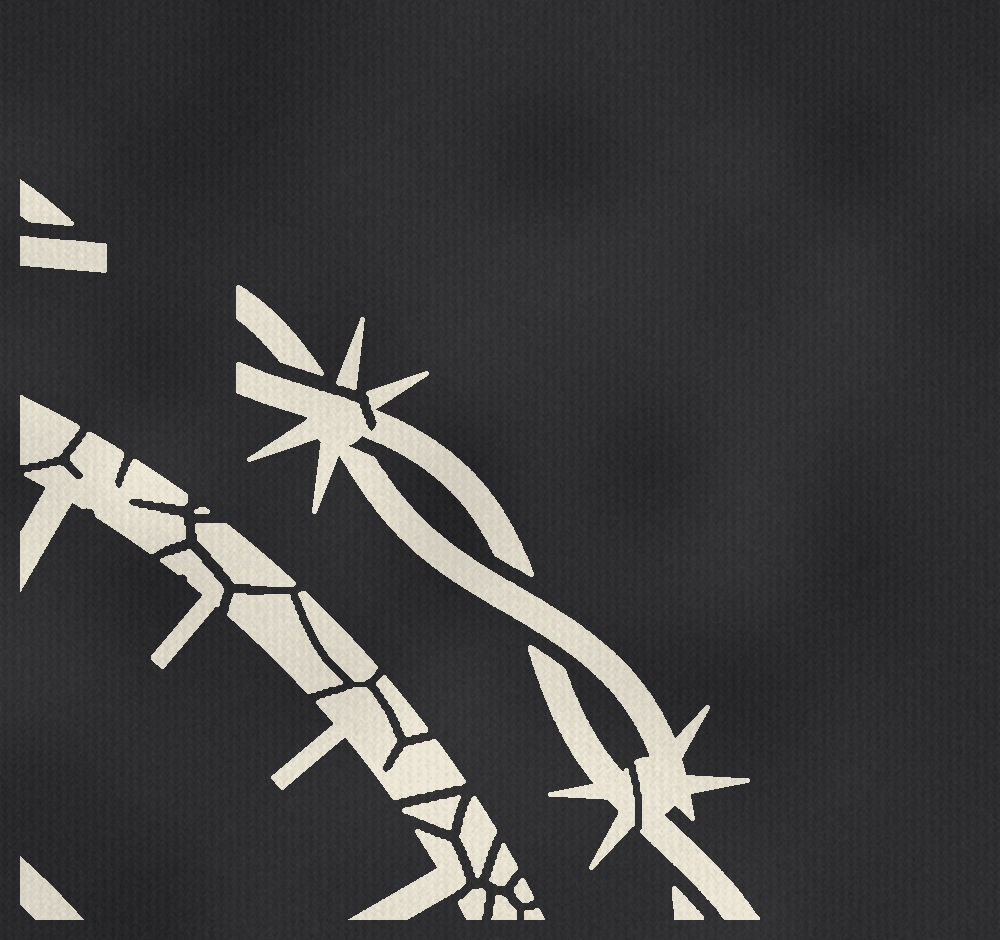
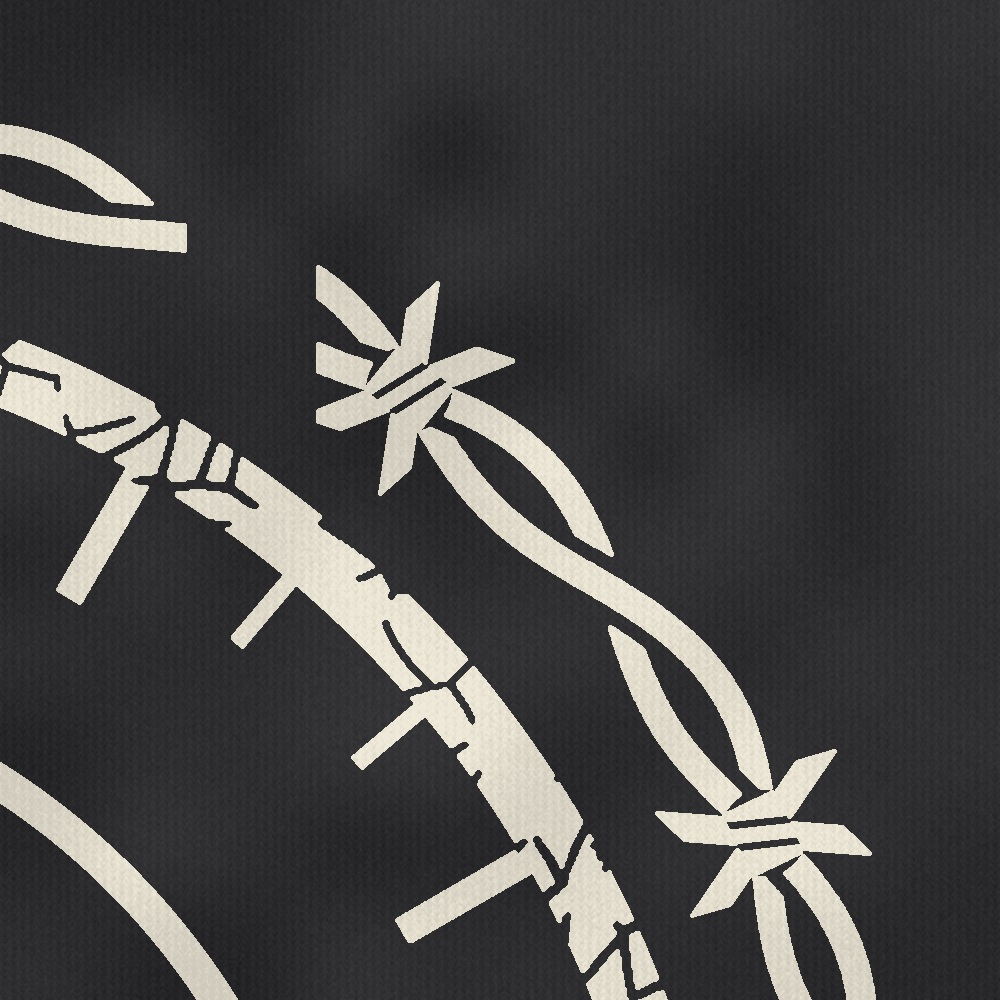
Polish ASAPROJECT archive hoodie after final review
Crossed-wire barbs with coil wraps, slogan kept solid and matched to the
emblem width, wider wordmark letter gaps, no floating crack dashes or
underbase-less islands, registration marks on every plate, tighter detail
crops and a visible garment-dye wash on the mockups.

Claude-Session: https://claude.ai/code/session_014qKUPKzD2XToMC4qC8Abs1

diff --git a/design/asaproject-archive/sorgenti/asa_archive.py b/design/asaproject-archive/sorgenti/asa_archive.py
@@ -244,26 +244,67 @@ def back_emblem(diameter_mm=235):
     s0 &= ~(cross1 & grow(s1, 1.2 * MM))
     wire = s0 | s1
 
-    # 16 four-point barbs spread over the arc outside the break, clear of the crosshair axes
-    gap_ang = mm(10) / R
+    # 16 barbs, each sitting on a strand crossing: two snipped wires crossing at 60 deg
+    # (4 points, tips ~9 mm from the axis) held by a 2-turn coil wrap
+    axes = (0, math.pi / 2, math.pi, -math.pi / 2)
+    crossings = [k * math.pi / n for k in range(2 * n)]
+    usable = [t for t in crossings
+              if _angdist(t, brk) > mm(14) / R and min(_angdist(t, ax) for ax in axes) > math.radians(8)]
+    gap_ang = mm(14) / R
     span = 2 * math.pi - 2 * gap_ang
     best = None
     for off in np.linspace(0, 1, 41):
-        ts = [brk + gap_ang + (j + off) * span / 16 for j in range(16)]
-        clear = min(_angdist(t, ax) for t in ts for ax in (0, math.pi / 2, math.pi, -math.pi / 2))
-        if best is None or clear > best[0]:
-            best = (clear, ts)
+        ideal = [brk + gap_ang + (j + off) * span / 16 for j in range(16)]
+        picked, taken = [], set()
+        for t in ideal:
+            cand = sorted((t2 for t2 in usable if t2 not in taken), key=lambda t2: _angdist(t2, t))
+            if cand:
+                picked.append(cand[0])
+                taken.add(cand[0])
+        err = sum(_angdist(a, b) for a, b in zip(picked, ideal))
+        if len(picked) == 16 and (best is None or err < best[0]):
+            best = (err, picked)
     barbs = Image.new("L", (S, S), 0)
     db2 = ImageDraw.Draw(barbs)
+    hw = mm(2.5) / 2
+    L = (mm(barb_reach) - hw * math.sin(math.radians(30))) / math.cos(math.radians(30))
+    cut = mm(3.0)
+    wraps = []
     for t in best[1]:
         bx, by = c + R * math.cos(t), c + R * math.sin(t)
+        for a in (t + math.radians(30), t - math.radians(30)):
+            ux, uy = math.cos(a), math.sin(a)
+            nx, ny = -uy, ux
+            loc = lambda s, q: (bx + s * ux + q * nx, by + s * uy + q * ny)
+            # both ends snipped on parallel diagonals -> sharp points, like cut wire
+            db2.polygon([loc(-L + cut, hw), loc(L, hw), loc(L - cut, -hw), loc(-L, -hw)], fill=255)
+        wraps.append(t)
+    # coil wrap over the centre of each barb, with two 0.6 mm gaps between the turns
+    for t in wraps:
+        bx, by = c + R * math.cos(t), c + R * math.sin(t)
         tang = t + math.pi / 2
-        for sgn in (1, -1):
-            for flip in (0, math.pi):
-                _spike(db2, bx, by, tang + sgn * barb_ang + flip, mm(barb_len), mm(2.5))
-        r0 = mm(2.6)
-        db2.ellipse((bx - r0, by - r0, bx + r0, by + r0), fill=255)
-    wire |= hard(barbs.resize((D, D), Image.LANCZOS))
+        ux, uy = math.cos(tang), math.sin(tang)
+        nx, ny = math.cos(t), math.sin(t)
+        loc = lambda s, q: (bx + s * ux + q * nx, by + s * uy + q * ny)
+        lw, th = mm(3.0), mm(2.3)
+        db2.polygon([loc(-lw, -th), loc(lw, -th), loc(lw, th), loc(-lw, th)], fill=255)
+        for s0 in (-mm(1.0), mm(1.0)):
+            sk = math.tan(math.radians(20)) * th          # coil turns lean ~20 deg
+            g = mm(0.3)
+            db2.polygon([loc(s0 - g - sk, -th - 2), loc(s0 + g - sk, -th - 2),
+                         loc(s0 + g + sk, th + 2), loc(s0 - g + sk, th + 2)], fill=0)
+    barb_mask = hard(barbs.resize((D, D), Image.LANCZOS))
+    # the wrap's gaps cut through everything under it, strands included
+    under_wrap = np.zeros((D, D), bool)
+    wr = Image.new("L", (D, D), 0)
+    dwr = ImageDraw.Draw(wr)
+    for t in wraps:
+        x, y = D / 2 + cR * math.cos(t), D / 2 + cR * math.sin(t)
+        r = 3.6 * MM
+        dwr.ellipse((x - r, y - r, x + r, y + r), fill=255)
+    under_wrap = np.asarray(wr) > 0
+    wire = (wire & ~under_wrap) | barb_mask
+    nocrack = grow(barb_mask | under_wrap, 0.5 * MM)
 
     # the break: a short angled snip through both strands
     snip = Image.new("L", (D, D), 0)
@@ -318,7 +359,7 @@ def back_emblem(diameter_mm=235):
     neon[oy:oy + ah, ox:ox + aw] = asa
     bone &= ndimage.distance_transform_edt(~neon) > px(4)   # clear fabric around the pink
     rects = [(x0 + ox, y0 + oy, x1 + ox, y1 + oy) for x0, y0, x1, y1 in asa_rects]
-    return bone, neon, rects
+    return bone, neon, rects, nocrack
 
 
 def chest_emblem(width_mm=89):
@@ -422,6 +463,9 @@ def crack(ink, keep_out, seed=11):
         thick &= ~tiny[lbl]
     allowed = thick & ~keep_out
     out = ink & ~(cracks & allowed)
+    # a crack has to run to an edge or into the network: fill floating dashes and pinholes
+    counters = ndimage.binary_fill_holes(ink) & ~ink
+    out |= ndimage.binary_fill_holes(out) & ~out & ~counters
 
     # chips: irregular 3-6 sided bites, 0.8-2 mm, along the edges of thick strokes
     border = allowed & (inside <= 1.5)
@@ -455,15 +499,17 @@ def keep_out_mask(shape, rects, margin_mm=3.0):
 # ---------------------------------------------------------------- layouts
 
 def back_art(width_in=14.0):
-    """Back statement: wordmark 14 in, emblem 9.25 in, slogan 8 in. Returns plates dict."""
+    """Back statement: wordmark 14 in, emblem 9.25 in, slogan as wide as the emblem."""
     W = round(width_in * INCH)
-    wm, wm_rects, letters = stencil_word("ASAPROJECT", 600)
+    # letter gaps ~2x the bridges so P, R, O, E never fall apart at a distance
+    wm, wm_rects, letters = stencil_word("ASAPROJECT", 600, tracking=0.17, bridge=0.08)
     k = W / wm.shape[1]
     wm, wm_rects = fit_width(wm, W), scale_rects(wm_rects, k)
     letters = [(round(a * k), round(b * k)) for a, b in letters]
-    eb, en, e_rects = back_emblem(235)
+    eb, en, e_rects, e_nocrack = back_emblem(235)
+    ecols = np.where(eb.any(axis=0))[0]
     sl = text_line("NOBODY GAVE US PERMISSION", 400, BARLOW_XBOLD, tracking=0.04)
-    sl = fit_width(sl, round(8.0 * INCH))
+    sl = fit_width(sl, int(ecols[-1] - ecols[0] + 1))       # exactly as wide as the emblem
     g1, g2 = round(1.25 * INCH), round(0.5 * INCH)
     H = wm.shape[0] + g1 + eb.shape[0] + g2 + sl.shape[0]
     bone = np.zeros((H, W), bool)
@@ -476,26 +522,34 @@ def back_art(width_in=14.0):
     neon[y:y + en.shape[0], x:x + en.shape[1]] |= en
     emblem_box = (x, y, x + eb.shape[1], y + eb.shape[0])
     rects += [(x0 + x, y0 + y, x1 + x, y1 + y) for x0, y0, x1, y1 in e_rects]
+    ko = keep_out_mask((H, W), rects)
+    ko[emblem_box[1]:emblem_box[3], emblem_box[0]:emblem_box[2]] |= e_nocrack   # barbs stay whole
     y += eb.shape[0] + g2
     x = (W - sl.shape[1]) // 2
-    bone[y:y + sl.shape[0], x:x + sl.shape[1]] |= sl
-    ko = keep_out_mask((H, W), rects)
+    slogan = np.zeros((H, W), bool)
+    slogan[y:y + sl.shape[0], x:x + sl.shape[1]] = sl
+    # the slogan stays solid, like the hem code; the rest gets the cracked print
+    bone_c = crack(bone, ko, seed=11) | slogan
+    neon_c = crack(neon, ko, seed=12)
+    bone |= slogan
     # press-ready: no ink feature (barb tip, acute corner, crack sliver) under ~0.42 mm
-    bone_c = drop_specks(opening(crack(bone, ko, seed=11), 2.5))
-    neon_c = drop_specks(opening(crack(neon, ko, seed=12), 2.5))
-    return {"bone": bone_c, "neon": neon_c,
+    bone_c, neon_c, under = press_ready(opening(bone_c, 2.5), opening(neon_c, 2.5))
+    return {"bone": bone_c, "neon": neon_c, "under": under,
             "bone_raw": bone, "neon_raw": neon, "letters": letters, "wordmark_h": wm.shape[0],
             "emblem_box": emblem_box,
             "cap_wordmark_in": wm.shape[0] / INCH, "cap_slogan_in": sl.shape[0] / INCH}
 
 
 def hem_code(text="ASA-001 · EST. 2026"):
-    return {"bone": text_line(text, px(10), BARLOW_BOLD, tracking=0.10)}
+    (bone,), under = press_ready(text_line(text, px(10), BARLOW_BOLD, tracking=0.10), cracked=False)
+    return {"bone": bone, "under": under}
 
 
 def chest_art():
     bone, neon = chest_emblem(89)
-    return {"bone": bone, "neon": neon}
+    # the white underbase goes only under the flat pink; the bone is printed as puff
+    (neon,), under = press_ready(neon, cracked=False)
+    return {"bone": bone, "neon": neon, "under": under}
 
 
 # ---------------------------------------------------------------- output
@@ -506,6 +560,51 @@ def underbase(*plates, choke_mm=0.17):
     for p in plates:
         u |= p
     return drop_specks(opening(shrink(u, choke_mm * MM), 2.5))
+
+
+def press_ready(*tops, cracked=True):
+    """Despeckle the top colours, build the underbase, and drop any top-colour island
+    that would end up with no underbase under it (it would print dull or not hold).
+    Returns (tops..., underbase); with cracked=False returns ((tops,), underbase)."""
+    tops = [drop_specks(t, 1.0) for t in tops]
+    u = underbase(*tops)
+    clean = []
+    for t in tops:
+        lbl, n = ndimage.label(t)
+        if n:
+            has_u = ndimage.maximum(u, lbl, index=np.arange(1, n + 1))
+            keep = np.zeros(n + 1, bool)
+            keep[1:] = has_u > 0
+            t = t & keep[lbl]
+        clean.append(t)
+    if not cracked:
+        return tuple(clean), u
+    return (*clean, u)
+
+
+def register(plates, margin_in=0.25):
+    """Pad a set of plates with a margin and identical registration marks."""
+    m = round(margin_in * INCH)
+    h, w = plates[0].shape
+    H, W = h + 2 * m, w + 2 * m
+    marks = Image.new("L", (W, H), 0)
+    d = ImageDraw.Draw(marks)
+    r, lw = px(2.5), max(2, px(0.25))
+    for cx, cy in ((m // 2, m // 2), (W - m // 2, m // 2), (m // 2, H - m // 2), (W - m // 2, H - m // 2)):
+        d.ellipse((cx - r, cy - r, cx + r, cy + r), outline=255, width=lw)
+        d.line((cx - r * 1.6, cy, cx + r * 1.6, cy), fill=255, width=lw)
+        d.line((cx, cy - r * 1.6, cx, cy + r * 1.6), fill=255, width=lw)
+    d.line((W // 2, m * 0.2, W // 2, m * 0.8), fill=255, width=lw)        # centre-line ticks
+    d.line((W // 2, H - m * 0.8, W // 2, H - m * 0.2), fill=255, width=lw)
+    d.line((m * 0.2, H // 2, m * 0.8, H // 2), fill=255, width=lw)
+    d.line((W - m * 0.8, H // 2, W - m * 0.2, H // 2), fill=255, width=lw)
+    mk = np.asarray(marks) > 0
+    out = []
+    for p in plates:
+        q = np.zeros((H, W), bool)
+        q[m:m + h, m:m + w] = p
+        out.append(q | mk)
+    return out
 
 
 def composite(plates):

diff --git a/design/asaproject-archive/sorgenti/mockup_archive.py b/design/asaproject-archive/sorgenti/mockup_archive.py
@@ -61,8 +61,10 @@ def washed_black(img, gm, seed):
     a = np.asarray(img, dtype=np.float32)
     rng = np.random.default_rng(seed)
     h, w = a.shape[:2]
-    n = Image.fromarray(rng.random((h // 90 + 2, w // 90 + 2)).astype(np.float32)).resize((w, h), Image.BICUBIC)
-    mott = (np.asarray(n, dtype=np.float32) - 0.5) * 9
+    mott = np.zeros((h, w), np.float32)
+    for cell, amp in ((90, 10), (35, 6)):            # garment-dye wash: blotches at two scales
+        n = Image.fromarray(rng.random((h // cell + 2, w // cell + 2)).astype(np.float32)).resize((w, h), Image.BICUBIC)
+        mott += (np.asarray(n, dtype=np.float32) - 0.5) * amp
     lum = a.mean(axis=2, keepdims=True)
     faded = 30 + a * 0.82 + mott[..., None]
     faded = faded * 0.85 + (lum * 0.82 + 30) * 0.15
@@ -204,25 +206,35 @@ front.save(f"{out}/mockup_fronte.jpg", quality=95)
 
 # close-ups at print resolution
 rgba = A.composite(backp)
-x_end = backp["letters"][4][1] + 60                       # whole "ASAPR", R included
-close_up(rgba.crop((0, 0, x_end, backp["wordmark_h"] + 450)), (x_end + 100, backp["wordmark_h"] + 550), 3).save(
-    f"{out}/dettaglio_retro_cracked.jpg", quality=93)
+# a deliberate "ASAPRO" crop: cut in the letter gap after the O, fabric margin elsewhere
+lt = backp["letters"]
+x_end = (lt[5][1] + lt[6][0]) // 2
+band = rgba.crop((0, 0, x_end, backp["wordmark_h"]))
+pad = 90
+framed = Image.new("RGBA", (band.width + pad, band.height + 2 * pad), (0, 0, 0, 0))
+framed.paste(band, (pad, pad))
+close_up(framed, framed.size, 3).save(f"{out}/dettaglio_retro_cracked.jpg", quality=93)
+# emblem crops run to the frame edge: the fabric never extends past the print window
 ex0, ey0, ex1, ey1 = backp["emblem_box"]
 cx, cy = (ex0 + ex1) // 2, (ey0 + ey1) // 2
-close_up(rgba.crop((cx - 900, cy - 900, cx + 900, cy + 400)), (1800, 1300), 6).save(f"{out}/dettaglio_mirino.jpg", quality=93)
-close_up(rgba.crop((ex1 - 900, ey0, ex1 + 60, ey0 + 900)), (1000, 940), 8).save(f"{out}/dettaglio_filo_spinato.jpg", quality=93)
+crop = rgba.crop((cx - 900, cy - 900, cx + 900, cy + 400))
+close_up(crop, crop.size, 6).save(f"{out}/dettaglio_mirino.jpg", quality=93)
+crop = rgba.crop((ex1 - 1000, ey0, ex1, ey0 + 1000))
+close_up(crop, crop.size, 8).save(f"{out}/dettaglio_filo_spinato.jpg", quality=93)
 close_up(puff_render(chest), (1400, 1400), 4).save(f"{out}/dettaglio_petto_puff.jpg", quality=93)
 close_up(A.composite(hem), (1600, 420), 7).save(f"{out}/dettaglio_codice_orlo.jpg", quality=93)
 
 # production files: 1-bit separations at 300 dpi + RGBA previews
-A.save_plate(backp["bone"], f"{out}/retro_1_bone.png")
-A.save_plate(backp["neon"], f"{out}/retro_2_rosa_806C.png")
-A.save_plate(A.underbase(backp["bone"], backp["neon"]), f"{out}/retro_0_sottofondo_bianco.png")
-A.save_plate(chest["bone"], f"{out}/petto_1_bone_puff.png")
-A.save_plate(chest["neon"], f"{out}/petto_2_rosa_806C_piatto.png")
-A.save_plate(A.underbase(chest["neon"]), f"{out}/petto_0_sottofondo_bianco_sotto_rosa.png")
-A.save_plate(hem["bone"], f"{out}/orlo_1_bone.png")
-A.save_plate(A.underbase(hem["bone"]), f"{out}/orlo_0_sottofondo_bianco.png")
+# each set shares one canvas with a 0.25 in margin and identical registration marks
+sets = {
+    "retro": [("0_sottofondo_bianco", backp["under"]), ("1_bone", backp["bone"]), ("2_rosa_806C", backp["neon"])],
+    "petto": [("0_sottofondo_bianco_sotto_rosa", chest["under"]), ("1_bone_puff", chest["bone"]),
+              ("2_rosa_806C_piatto", chest["neon"])],
+    "orlo": [("0_sottofondo_bianco", hem["under"]), ("1_bone", hem["bone"])],
+}
+for name, plates in sets.items():
+    for (suffix, _), plate in zip(plates, A.register([p for _, p in plates])):
+        A.save_plate(plate, f"{out}/{name}_{suffix}.png")
 A.composite(backp).save(f"{out}/anteprima_stampa_retro.png", dpi=(A.DPI, A.DPI))
 A.composite(chest).save(f"{out}/anteprima_stampa_petto.png", dpi=(A.DPI, A.DPI))
 A.composite(hem).save(f"{out}/anteprima_stampa_orlo.png", dpi=(A.DPI, A.DPI))

diff --git a/design/asaproject-archive/README.md b/design/asaproject-archive/README.md
@@ -24,8 +24,9 @@ l'unico accento ed è usato solo su "ASA".
 ## File di stampa (`stampa/`)
 
 Lastre a 1 bit, 300 dpi, **nero = inchiostro su bianco** (positivo per pellicola).
-Le lastre di uno stesso set hanno la stessa tela: si mettono a registro
-allineando i bordi.
+Ogni lastra ha un margine di 0,25 in con segni di registro (mirini agli
+angoli e tacche sulle linee di centro), identici su tutte le lastre dello
+stesso set: servono solo per la pellicola, sul telaio vanno coperti.
 
 | Posizione | Misura          | Lastre                                                       | Tecnica            |
 |-----------|-----------------|--------------------------------------------------------------|--------------------|
@@ -46,13 +47,20 @@ chi indossa.
 - Puff del petto: tratto minimo 1,6 mm, spazio minimo 2,58 mm, niente punte
   sottili (le punte del filo sono barre arrotondate). Il rosa è piatto, a
   2,5 mm dal puff, con il suo sottofondo.
-- Crepe: celle da 4 a 10 mm, larghezza da 0,5 a 0,8 mm, circa 14,5% della
-  superficie crepabile. Crepano solo i tratti oltre 3,2 mm (wordmark, anello
-  esterno, bracci del mirino, ASA); filo, anello interno, tacche, puntini,
-  slogan e codice restano pieni. Nessuna crepa entro 3 mm dai ponti stencil.
-- Nessun dettaglio d'inchiostro sotto 0,42 mm e nessun frammento sotto 0,5 mm².
-- Ponti stencil al 10% dell'altezza delle maiuscole; spaziatura tra le lettere
-  più larga dei ponti, così i pezzi di P, R, O, E restano raggruppati.
+- Crepe: celle da 4 a 10 mm, larghezza da 0,5 a 0,8 mm (si stringono a
+  0,5 mm verso la fine, mai meno), circa 13% della superficie crepabile.
+  Crepano solo i tratti oltre 3,2 mm (wordmark, anello esterno, bracci del
+  mirino, ASA); filo, punte, anello interno, tacche, puntini, slogan e
+  codice restano pieni. Nessuna crepa entro 3 mm dai ponti stencil, nessun
+  trattino isolato o forellino.
+- Nessun dettaglio d'inchiostro sotto 0,42 mm, nessun frammento di colore
+  sotto 1 mm² e nessuna isola di colore senza sottofondo.
+- Ponti stencil del wordmark di 3,4 mm (8% delle maiuscole) con spazi tra le
+  lettere di 7 mm, così i pezzi di P, R, O, E restano raggruppati.
+- Filo spinato: due fili da 2,5 mm che si incrociano sopra/sotto, 16 punte
+  fatte di due fili tagliati in diagonale con un avvolgimento a spirale,
+  punte a circa 9 mm dal filo, taglio netto a ore 1.
+- Slogan largo esattamente quanto l'emblema (9,07 in), maiuscole 0,57 in.
 - Sottofondo bianco ristretto di 0,17 mm sotto i colori; nessun pixel fuori.
 
 ### Da decidere con lo stampatore
